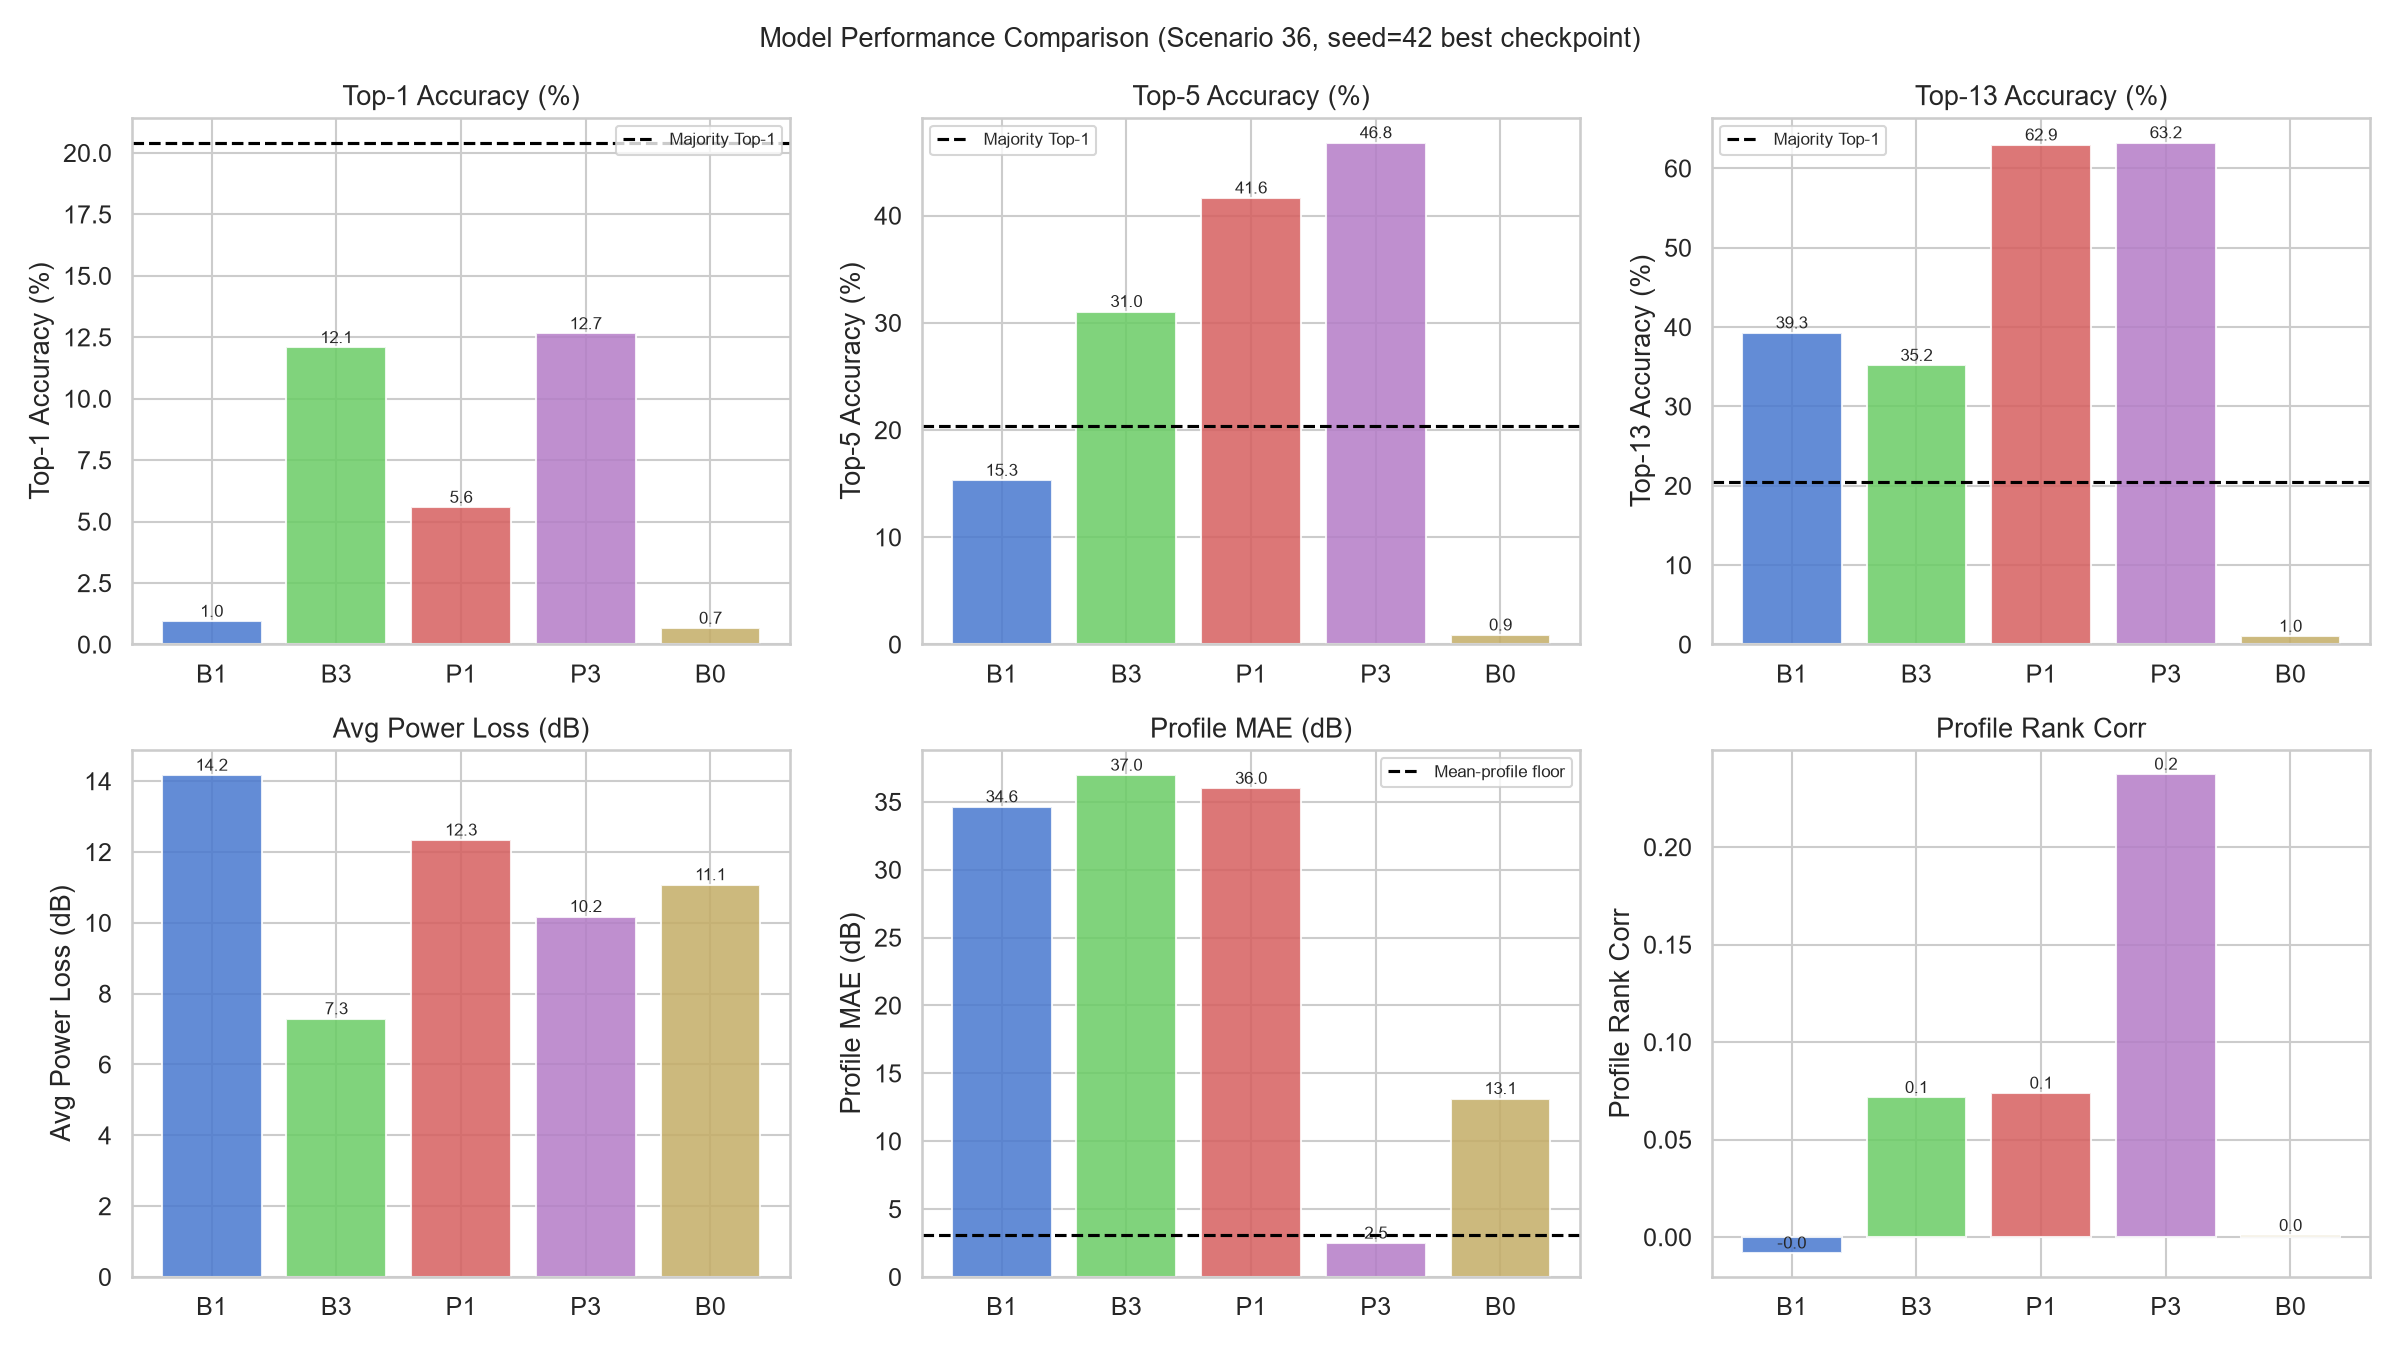
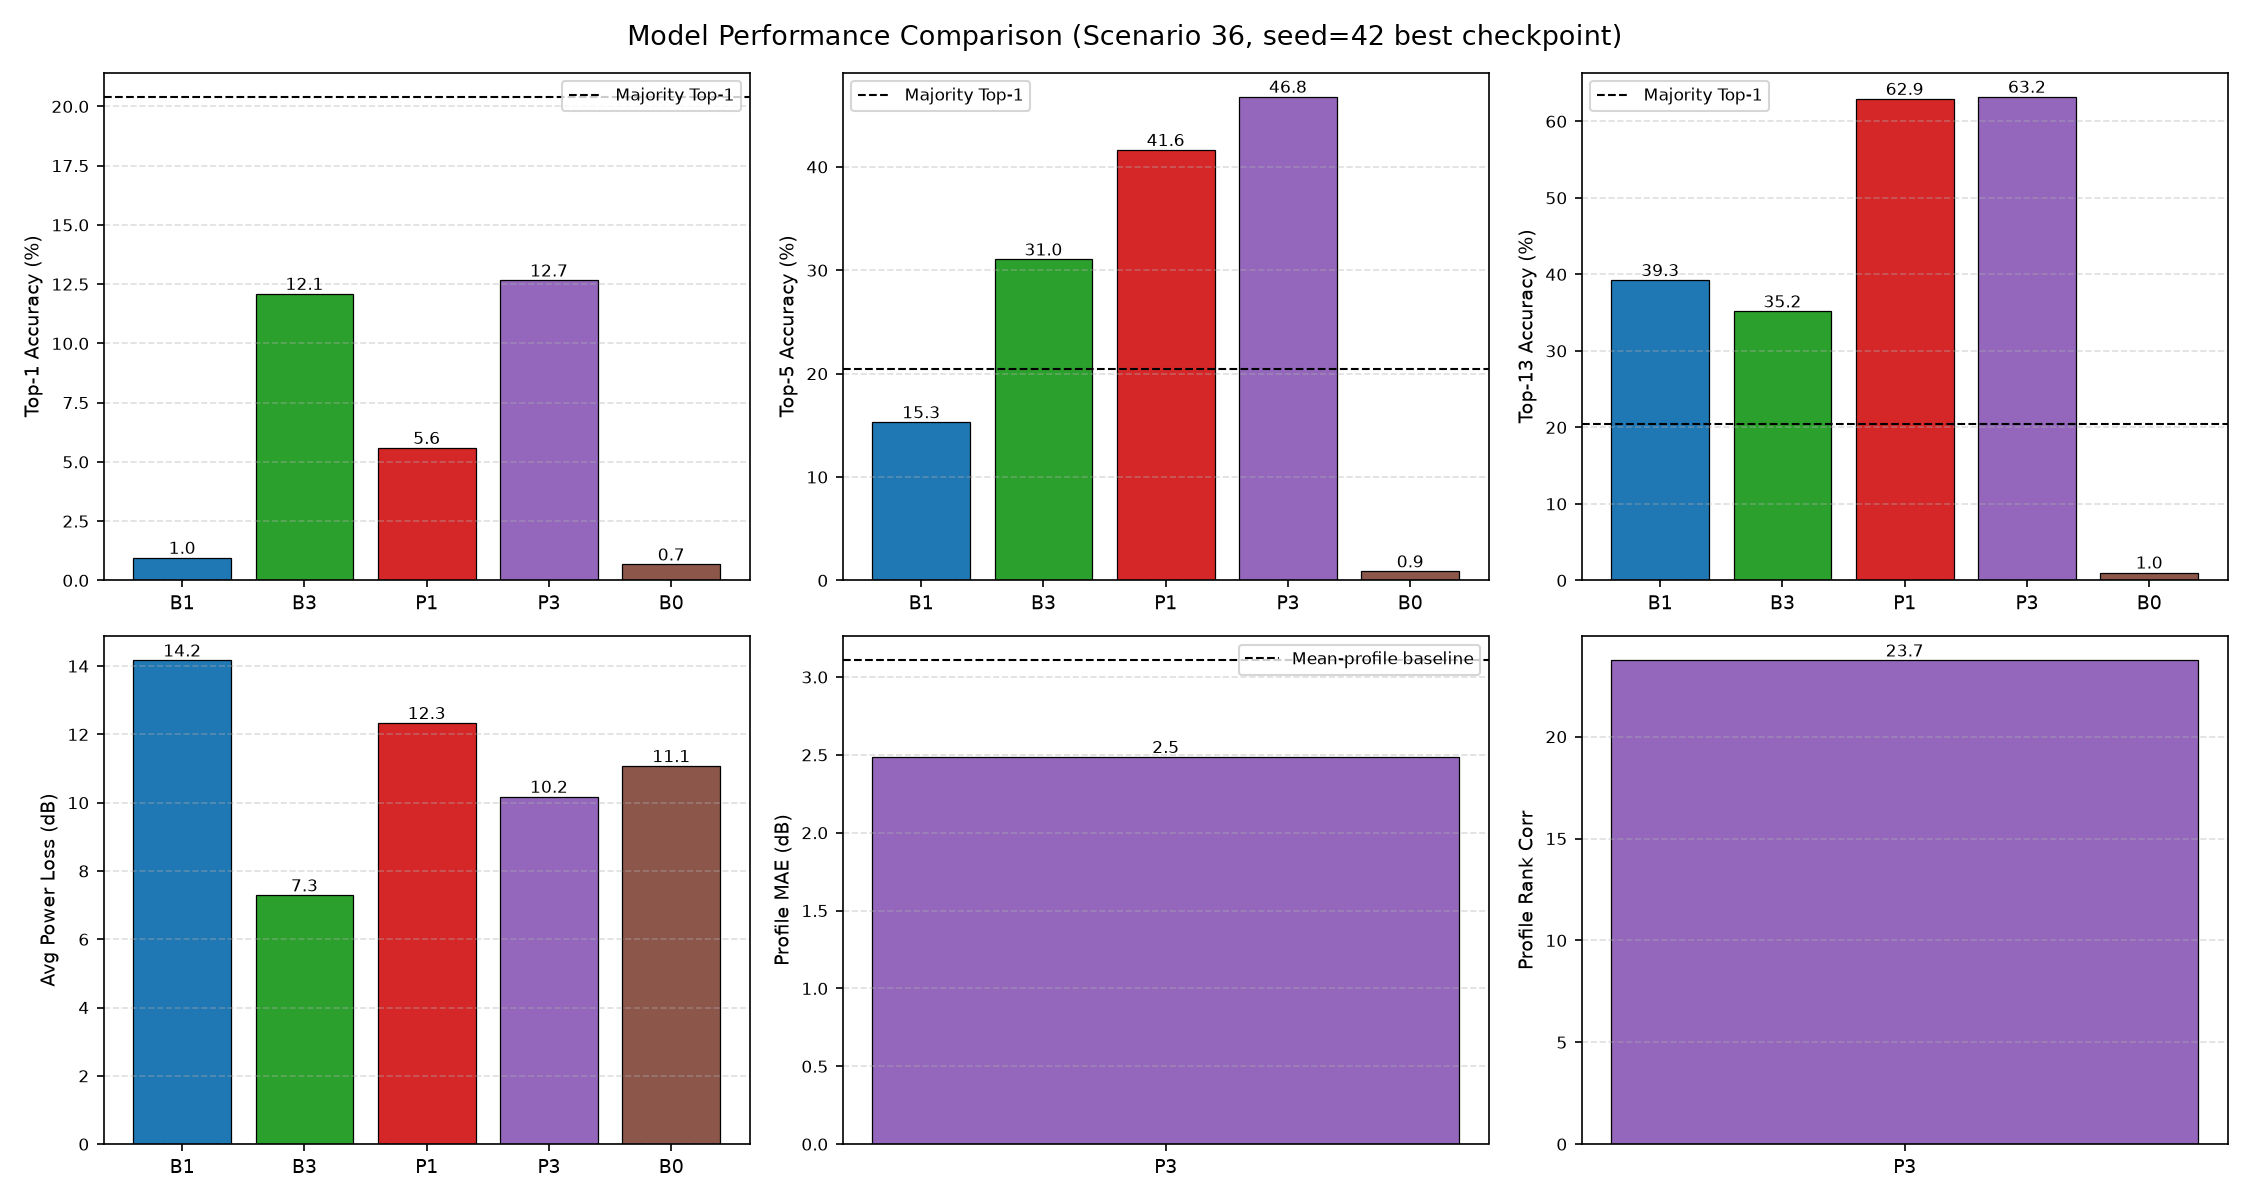
Regenerate fig_model_comparison: suppress bogus profile metrics, fix label
- Profile MAE and Rank Corr bars removed (NaN) for B0/B1/B3/P1 which have
  no profile head. Only P3 bars remain for those panels.
- Dashed reference line label changed from 'Mean-profile floor' to
  'Mean-profile baseline' (consistent with README and report).
- Add regenerate_model_comparison_fig.py for reproducibility (reads from
  results/ablation_table.csv, no raw dataset required).

diff --git a/regenerate_model_comparison_fig.py b/regenerate_model_comparison_fig.py
@@ -1,0 +1,91 @@
+"""
+Regenerate data/processed/eda_figures/fig_model_comparison.png with corrections:
+  1. Profile MAE and Rank Corr bars suppressed (set to NaN) for models without
+     a profile head (B0, B1, B3, P1).
+  2. Dashed reference line label changed from "Mean-profile floor" to
+     "Mean-profile baseline".
+Reads from results/ablation_table.csv (no raw dataset required).
+"""
+import os
+import numpy as np
+import pandas as pd
+import matplotlib
+matplotlib.use("Agg")
+import matplotlib.pyplot as plt
+
+# ── load data ────────────────────────────────────────────────────────────────
+abl = pd.read_csv("results/ablation_table.csv")
+# Reorder to match the figure's display order
+model_order = ["B1", "B3", "P1", "P3", "B0"]
+abl["model"] = pd.Categorical(abl["model"], categories=model_order, ordered=True)
+abl = abl.sort_values("model").reset_index(drop=True)
+
+# Models WITHOUT a profile head — suppress MAE and rank-corr
+NO_PROFILE_HEAD = {"B0", "B1", "B3", "P1"}
+for col in ("profile_mae_db", "profile_rank_corr"):
+    abl.loc[abl["model"].isin(NO_PROFILE_HEAD), col] = np.nan
+
+maj_top1   = float(abl["majority_baseline_top1"].iloc[0])
+mean_baseline = float(abl["mean_profile_mae_db"].iloc[0])   # 3.11 dB
+
+# ── colour palette (matches original figure) ─────────────────────────────────
+palette = ["#1f77b4", "#2ca02c", "#d62728", "#9467bd", "#8c564b"]
+
+# ── subplots ──────────────────────────────────────────────────────────────────
+metrics = [
+    # (column,             y-label,                    pct?,  ref_val,      ref_label)
+    ("test_top1",     "Top-1 Accuracy (%)",        True,  maj_top1*100, "Majority Top-1"),
+    ("test_top5",     "Top-5 Accuracy (%)",        True,  maj_top1*100, "Majority Top-1"),
+    ("test_top13",    "Top-13 Accuracy (%)",       True,  maj_top1*100, "Majority Top-1"),
+    ("apl_db",        "Avg Power Loss (dB)",       False, None,         None),
+    ("profile_mae_db","Profile MAE (dB)",          False, mean_baseline,"Mean-profile baseline"),
+    ("profile_rank_corr","Profile Rank Corr",      True,  None,         None),
+]
+
+fig, axes = plt.subplots(2, 3, figsize=(15, 8))
+axes = axes.flatten()
+
+for ax, (col, ylabel, as_pct, ref_val, ref_label) in zip(axes, metrics):
+    vals = abl[col].values.copy()
+    if as_pct:
+        vals = vals * 100
+
+    bars = ax.bar(
+        abl["model"], vals,
+        color=palette[:len(abl)],
+        edgecolor="black", linewidth=0.6,
+    )
+
+    # Value labels on top of each bar (skip NaN)
+    for bar, v in zip(bars, vals):
+        if np.isnan(v):
+            continue
+        ax.text(
+            bar.get_x() + bar.get_width() / 2,
+            bar.get_height(),
+            f"{v:.1f}",
+            ha="center", va="bottom", fontsize=8,
+        )
+
+    if ref_val is not None:
+        ax.axhline(ref_val, color="black", linestyle="--", linewidth=1,
+                   label=ref_label)
+        ax.legend(fontsize=8)
+
+    ax.set_ylabel(ylabel, fontsize=9)
+    ax.set_xlabel("")
+    ax.tick_params(axis="x", labelsize=9)
+    ax.tick_params(axis="y", labelsize=8)
+    ax.grid(axis="y", linestyle="--", alpha=0.4)
+
+plt.suptitle(
+    "Model Performance Comparison (Scenario 36, seed=42 best checkpoint)",
+    fontsize=13,
+)
+plt.tight_layout()
+
+out_path = os.path.join("data", "processed", "eda_figures", "fig_model_comparison.png")
+os.makedirs(os.path.dirname(out_path), exist_ok=True)
+plt.savefig(out_path, dpi=150)
+plt.close()
+print(f"Saved {out_path}")
